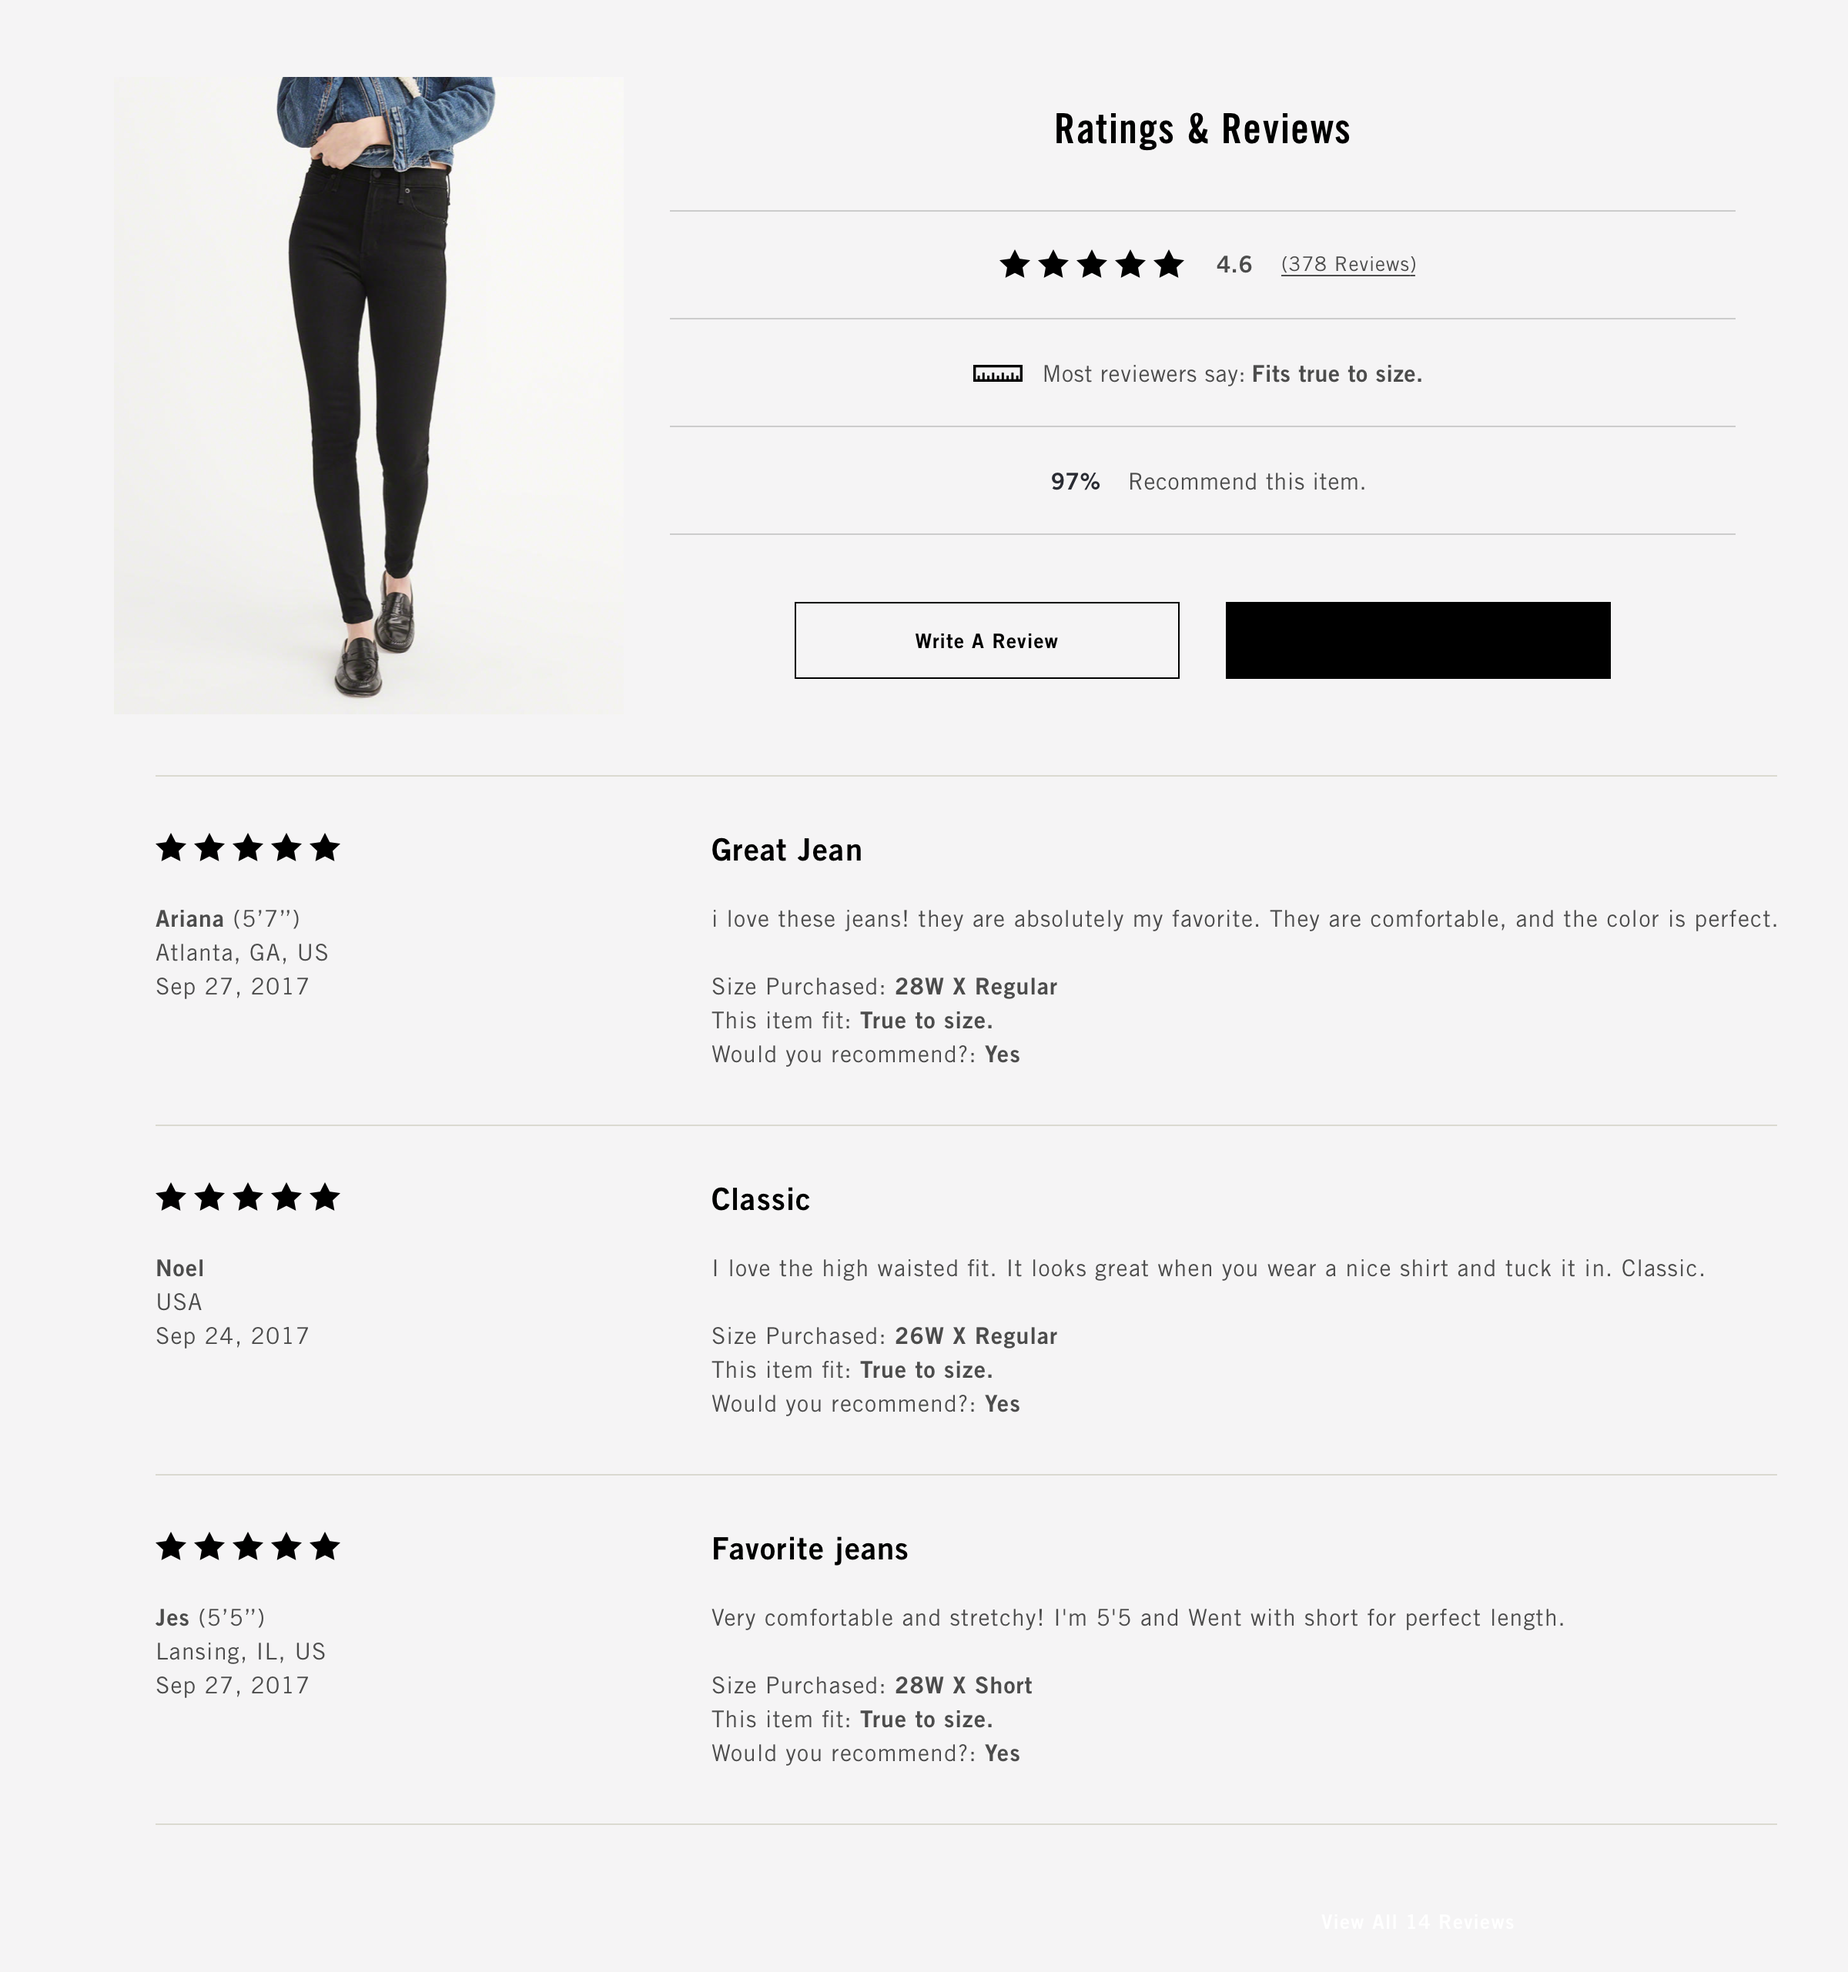
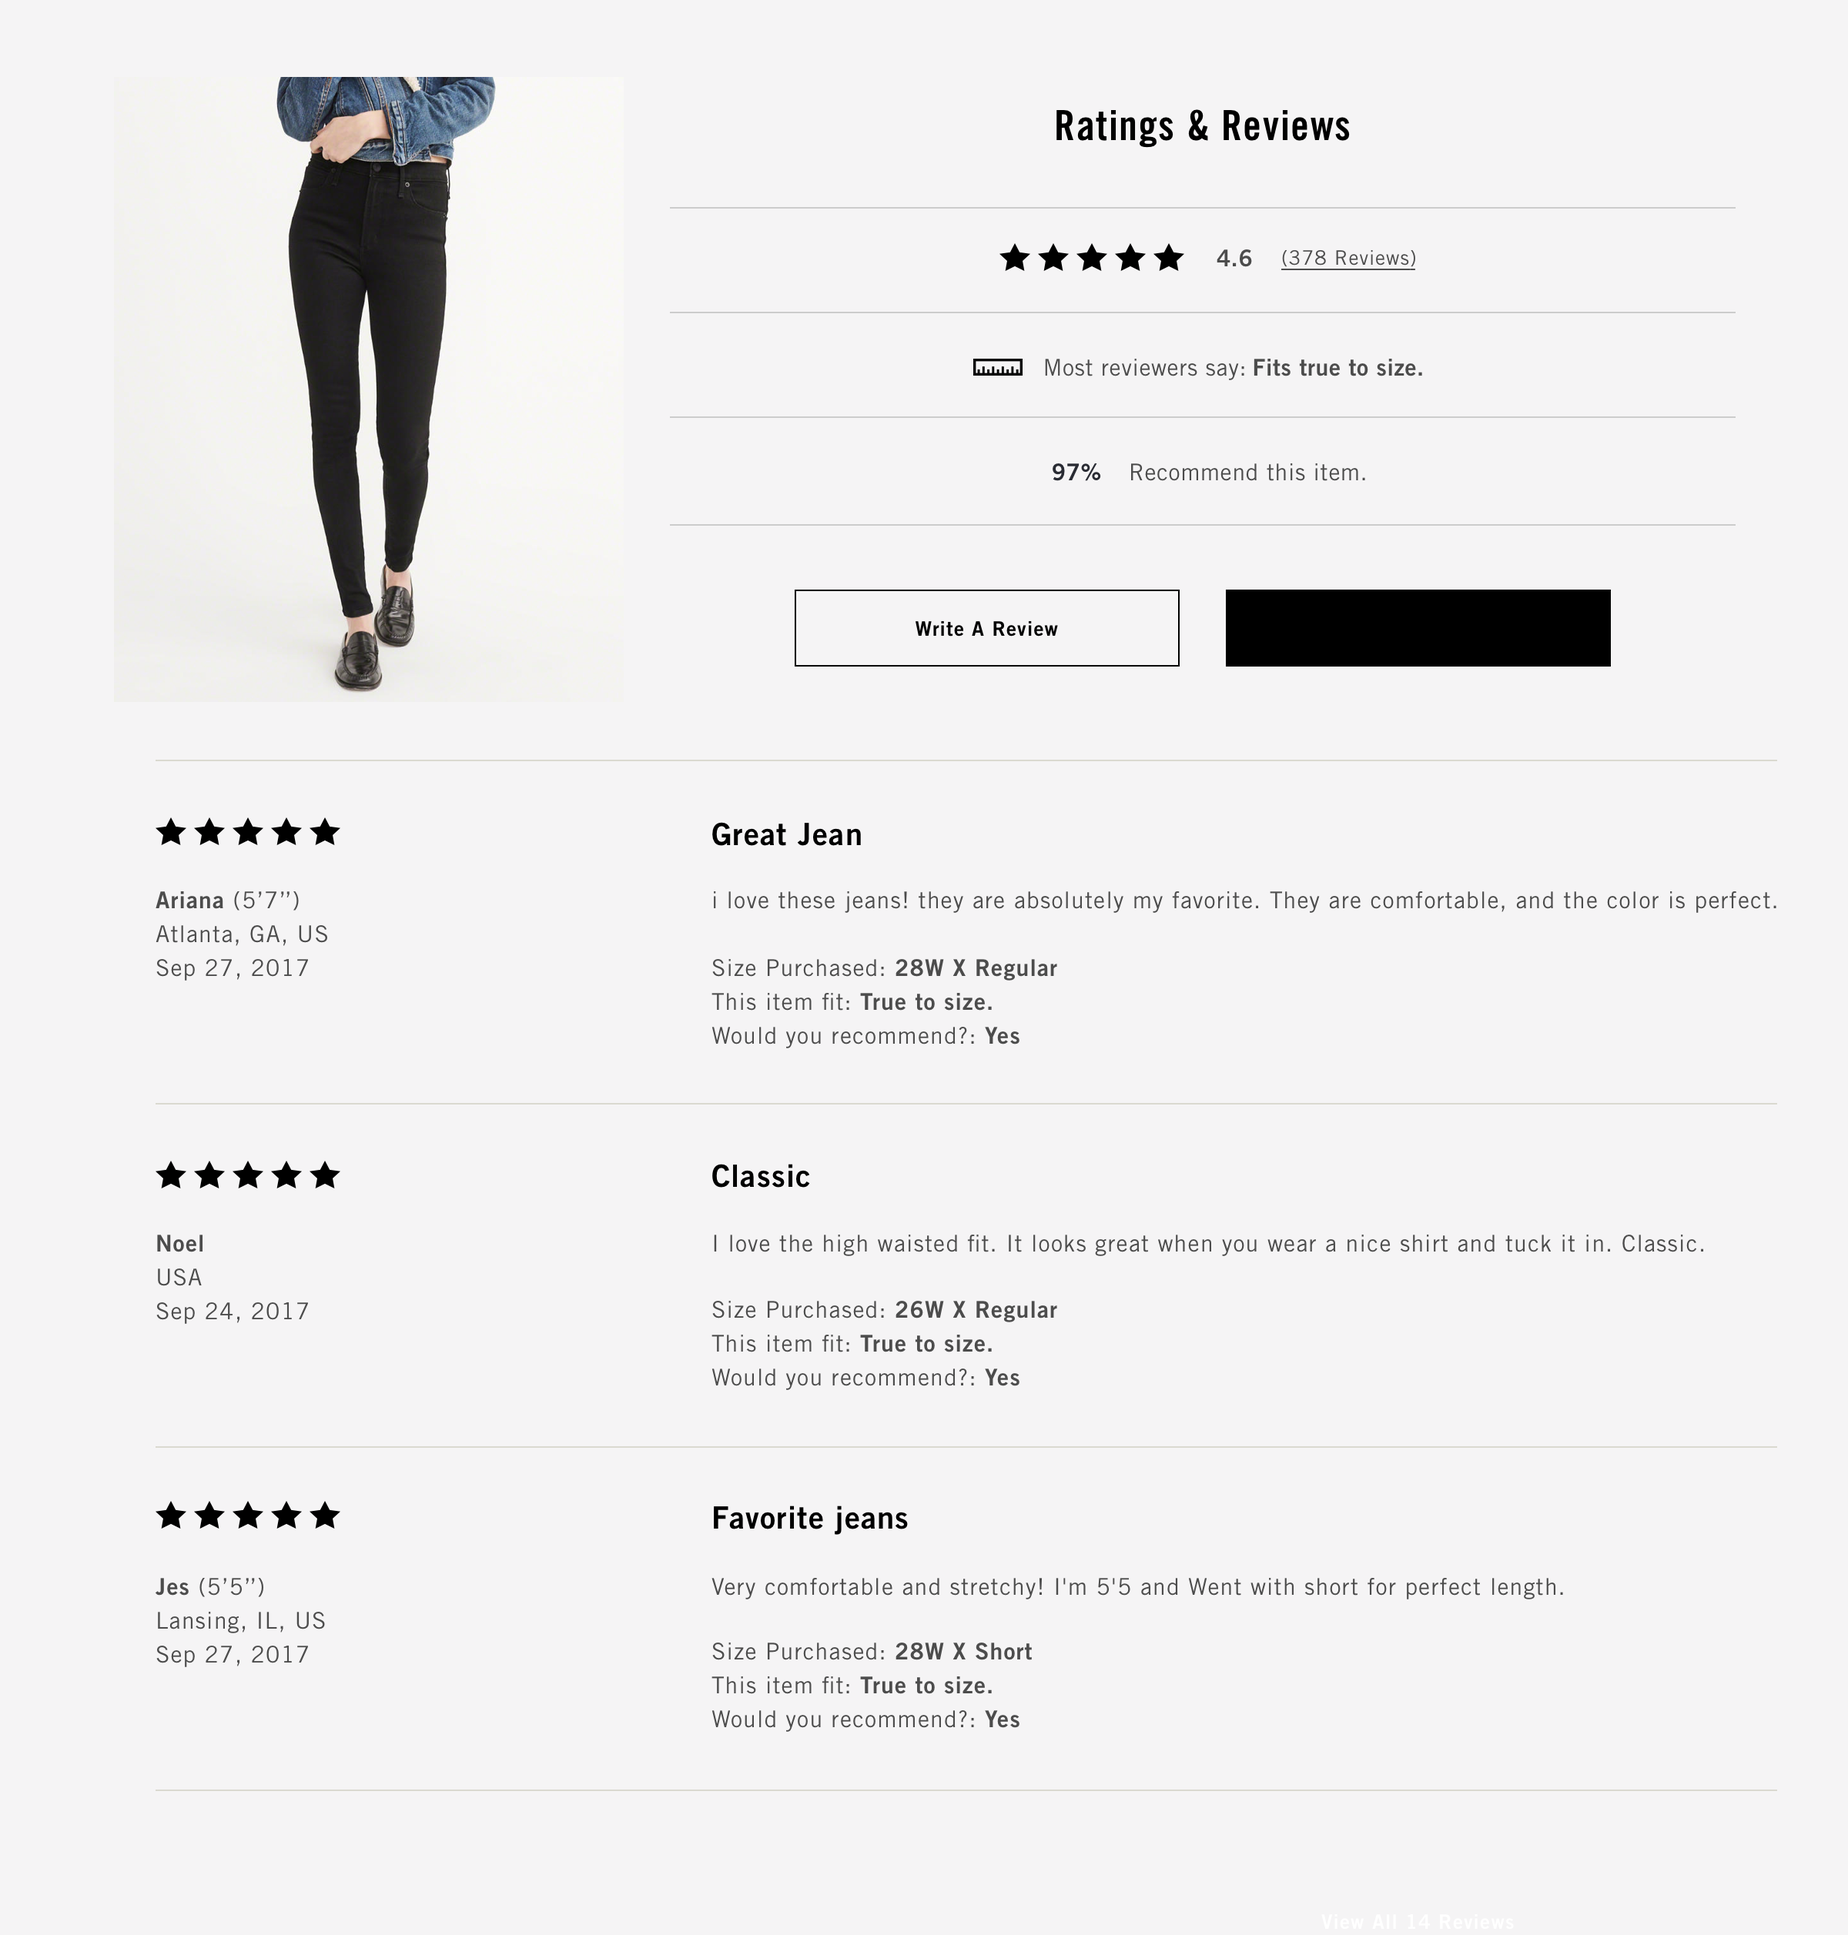
image backgrounds

diff --git a/scss/styles-desktop-buy-grid_1.css b/scss/styles-desktop-buy-grid_1.css
@@ -786,9 +786,30 @@ Scrollable Area
     .product-page__main-container .tab #tab-one:checked + label::after {
       transform: rotate(135deg); }
 
+.has-grey {
+  background-color: #F6F6F6; }
+
 .content {
-  text-align: center; }
+  text-align: center;
+  display: block; }
+  .content .grey-1 {
+    height: 100%;
+    max-height: 611px;
+    width: auto;
+    background-color: #F6F6F6; }
+  .content .grey-2 {
+    height: 100%;
+    max-height: 1258px;
+    width: auto;
+    background-color: #F5F4F5; }
+  .content .grey-3 {
+    height: 100%;
+    max-height: 550px;
+    width: auto;
+    background-color: #F6F6F6;
+    margin-top: 73px; }
   .content img {
+    height: auto;
     width: 100%;
     max-width: 1200px; }
 

diff --git a/scss/styles-desktop-buy-grid_1.scss b/scss/styles-desktop-buy-grid_1.scss
@@ -890,13 +890,41 @@ Scrollable Area
 
 }
 
+.has-grey {
+    background-color: #F6F6F6;
+}
+
 .content {
     text-align: center;
+    display: block;
+
+    .grey-1 {
+        height: 100%;
+        max-height: 611px;
+        width: auto;
+        background-color: #F6F6F6;
+    }
+    .grey-2 {
+        height: 100%;
+        max-height: 1258px;
+        width: auto;
+        background-color: #F5F4F5;
+    }
+    .grey-3 {
+        height: 100%;
+        max-height: 550px;
+        width: auto;
+        background-color: #F6F6F6;
+
+        margin-top: 73px;
+    }
 
     img {
+        height: auto;
         width: 100%;
         max-width: 1200px;
     }
+
 }
 
 #overlay {

diff --git a/desktop-buy-grid_1.html b/desktop-buy-grid_1.html
@@ -555,19 +555,20 @@
 		</section>
 
 		<section class="content">
+			<div class="grey-1">
+				<img src="img/Details.png">
+			</div>
+				<img src="img/UGC.png">
+			<div class="grey-2">
+				<img src="img/Reviews.png">
+			</div>
+			<div class="grey-3">
+				<img src="img/Footer.png">
+			</div>
 
-			<img src="img/Details.png">
-			<img src="img/UGC.png">
-			<img src="img/Reviews.png">
-			<img src="img/Footer.png">
 
 		</section>
 
-
-		<div class="has-top-margin">
-			<br/>
-		</div>
-	</div>
 
 
 
